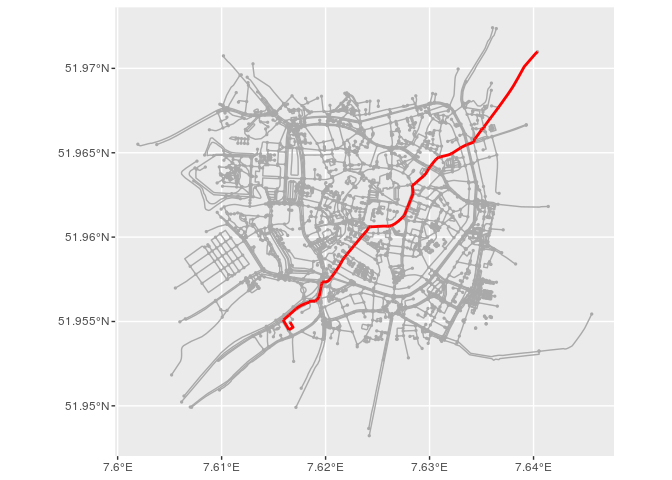
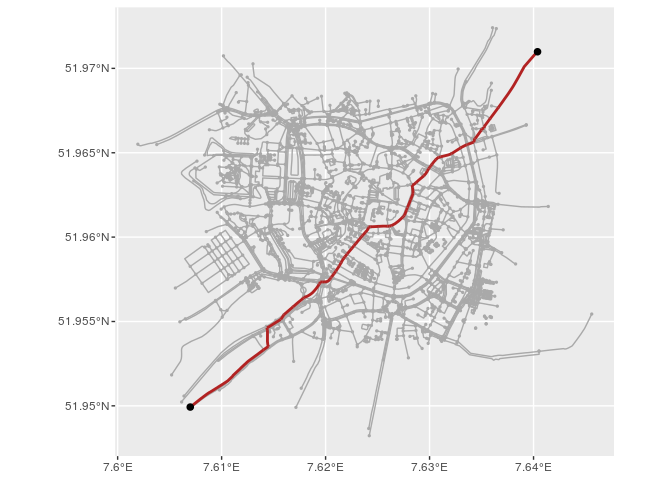
Update maps + tidy

diff --git a/blogpost.md b/blogpost.md
@@ -670,11 +670,7 @@ interactive map.
 
 ``` r
 tmap_mode('view')
-```
 
-    ## tmap mode set to interactive viewing
-
-``` r
 tm_shape(graph %>% activate(edges) %>% as_tibble() %>% st_as_sf()) +
   tm_lines() +
 tm_shape(graph %>% activate(nodes) %>% as_tibble() %>% st_as_sf()) +
@@ -740,7 +736,7 @@ graph
 ``` r
 ggplot() +
   geom_sf(data = graph %>% activate(edges) %>% as_tibble() %>% st_as_sf()) + 
-  geom_sf(data = graph %>% activate(nodes) %>% as_tibble() %>% st_as_sf(), aes(col = betweenness), size = 2) +
+  geom_sf(data = graph %>% activate(nodes) %>% as_tibble() %>% st_as_sf(), aes(col = betweenness, size = betweenness)) +
   scale_colour_viridis_c(option = 'inferno')
 ```
 
@@ -748,7 +744,7 @@ ggplot() +
 
 ``` r
 ggplot() +
-  geom_sf(data = graph %>% activate(edges) %>% as_tibble() %>% st_as_sf(), aes(col = betweenness, lwd = betweenness)) +
+  geom_sf(data = graph %>% activate(edges) %>% as_tibble() %>% st_as_sf(), aes(col = betweenness, size = betweenness)) +
   scale_colour_viridis_c(option = 'inferno')
 ```
 
@@ -801,7 +797,7 @@ and `both` returns them both.
 ``` r
 from_node <- graph %>%
   activate(nodes) %>%
-  filter(nodeID == 3285) %>%
+  filter(nodeID == 3284) %>%
   pull(nodeID)
 
 to_node <- graph %>%
@@ -821,30 +817,30 @@ path$vpath
 ```
 
     ## [[1]]
-    ## + 81/3321 vertices, from 9dfd9b2:
-    ##  [1] 3285 2314 1146 2410 2893 2892 1979 1978 1901 2407  448 3151 2847 1868
-    ## [15] 2070  152 1508 3014 3013 2951 2392 1201 1719 1197 3085 1194 1190  552
-    ## [29] 1577 1185 1182 2124 1176 2125   59 1925  920 3162 2134 1902 1903  330
-    ## [43] 1904   26   27 1961 1454 1455 1456 1457 1688 1911 1462   24   25 3073
-    ## [57]  753  756 1073 1475 1476 2693 2692 3061 1659  830 1656 1655 2854   11
-    ## [71] 1640 1091 1092   99 1234  101  100  275 3154 3163 3305
+    ## + 82/3321 vertices, from 45ad0b9:
+    ##  [1] 3284 2822 2905 2310 1382  226 2035  445  446  946  368  367 2848 2289
+    ## [15] 2239 2393  152 1508 3014 3013 2951 2392 1201 1719 1197 3085 1194 1190
+    ## [29]  552 1577 1185 1182 2124 1176 2125   59 1925  920 3162 2134 1902 1903
+    ## [43]  330 1904   26   27 1961 1454 1455 1456 1457 1688 1911 1462   24   25
+    ## [57] 3073  753  756 1073 1475 1476 2693 2692 3061 1659  830 1656 1655 2854
+    ## [71]   11 1640 1091 1092   99 1234  101  100  275 3154 3163 3305
 
 ``` r
 path$epath
 ```
 
     ## [[1]]
-    ## + 80/4681 edges from 9dfd9b2:
-    ##  [1] 2314--3285 1146--2314 1146--2410 2410--2893 2892--2893 1979--2892
-    ##  [7] 1978--1979 1901--1978 1901--2407  448--2407  448--3151 2847--3151
-    ## [13] 1868--2847 1868--2070  152--2070  152--1508 1508--3014 3013--3014
-    ## [19] 2951--3013 2392--2951 1201--2392 1201--1719 1197--1719 1197--3085
-    ## [25] 1194--3085 1190--1194  552--1190  552--1577 1185--1577 1182--1185
-    ## [31] 1182--2124 1176--2124 1176--2125   59--2125   59--1925  920--1925
-    ## [37]  920--3162 2134--3162 1902--2134 1902--1903  330--1903  330--1904
-    ## [43]   26--1904   26--  27   27--1961 1454--1961 1454--1455 1455--1456
-    ## [49] 1456--1457 1457--1688 1688--1911 1462--1911   24--1462   24--  25
-    ## [55]   25--3073  753--3073  753-- 756  756--1073 1073--1475 1475--1476
+    ## + 81/4681 edges from 45ad0b9:
+    ##  [1] 2822--3284 2822--2905 2310--2905 1382--2310  226--1382  226--2035
+    ##  [7]  445--2035  445-- 446  446-- 946  368-- 946  367-- 368  367--2848
+    ## [13] 2289--2848 2239--2289 2239--2393  152--2393  152--1508 1508--3014
+    ## [19] 3013--3014 2951--3013 2392--2951 1201--2392 1201--1719 1197--1719
+    ## [25] 1197--3085 1194--3085 1190--1194  552--1190  552--1577 1185--1577
+    ## [31] 1182--1185 1182--2124 1176--2124 1176--2125   59--2125   59--1925
+    ## [37]  920--1925  920--3162 2134--3162 1902--2134 1902--1903  330--1903
+    ## [43]  330--1904   26--1904   26--  27   27--1961 1454--1961 1454--1455
+    ## [49] 1455--1456 1456--1457 1457--1688 1688--1911 1462--1911   24--1462
+    ## [55]   24--  25   25--3073  753--3073  753-- 756  756--1073 1073--1475
     ## + ... omitted several edges
 
 ``` r
@@ -857,11 +853,11 @@ path_graph <- graph %>%
 path_graph
 ```
 
-    ## # A tbl_graph: 81 nodes and 80 edges
+    ## # A tbl_graph: 82 nodes and 81 edges
     ## #
     ## # An undirected simple graph with 1 component
     ## #
-    ## # Node Data: 81 x 4 (active)
+    ## # Node Data: 82 x 4 (active)
     ##   nodeID            geometry degree betweenness
     ##    <int>         <POINT [°]>  <dbl>       <dbl>
     ## 1     11 (7.633612 51.96548)      4      107917
@@ -870,21 +866,22 @@ path_graph
     ## 4     26 (7.626123 51.96065)      3      724992
     ## 5     27 (7.626309 51.96067)      3      653364
     ## 6     59 (7.623359 51.95995)      3      544089
-    ## # … with 75 more rows
+    ## # … with 76 more rows
     ## #
-    ## # Edge Data: 80 x 7
+    ## # Edge Data: 81 x 7
     ##    from    to highway                  geometry edgeID   length betweenness
     ##   <int> <int> <fct>            <LINESTRING [°]>  <int>      [m]       <dbl>
     ## 1     2     3 reside… (7.62837 51.96292, 7.628…     13 18.62548      433722
     ## 2     4     5 reside… (7.626123 51.96065, 7.62…     14 13.08964      651475
     ## 3     8     9 service (7.635255 51.96645, 7.63…     54 14.98778       33343
-    ## # … with 77 more rows
+    ## # … with 78 more rows
 
 ``` r
 ggplot() +
-  geom_sf(data = graph %>% activate(edges) %>% as_tibble() %>% st_as_sf(), col = 'darkgrey') + 
-  geom_sf(data = graph %>% activate(nodes) %>% as_tibble() %>% st_as_sf(), size = 0.5, col = 'darkgrey') +
-  geom_sf(data = path_graph %>% activate(edges) %>% as_tibble() %>% st_as_sf(), lwd = 1, col = 'red')
+  geom_sf(data = graph %>% activate(edges) %>% as_tibble() %>% st_as_sf(), col = 'darkgrey') +
+  geom_sf(data = graph %>% activate(nodes) %>% as_tibble() %>% st_as_sf(), col = 'darkgrey', size = 0.5) +
+  geom_sf(data = path_graph %>% activate(edges) %>% as_tibble() %>% st_as_sf(), lwd = 1, col = 'firebrick') +
+  geom_sf(data = path_graph %>% activate(nodes) %>% filter(nodeID %in% c(from_node, to_node)) %>% as_tibble() %>% st_as_sf(), size = 2)
 ```
 
 ![](blogpost_files/figure-gfm/unnamed-chunk-25-1.png)<!-- -->
@@ -898,49 +895,19 @@ station of Münster to the cathedral.
 muenster_station <- st_point(c(7.6349, 51.9566)) %>% 
   st_sfc(crs = 4326)
 
-muenster_station
-```
-
-    ## Geometry set for 1 feature 
-    ## geometry type:  POINT
-    ## dimension:      XY
-    ## bbox:           xmin: 7.6349 ymin: 51.9566 xmax: 7.6349 ymax: 51.9566
-    ## epsg (SRID):    4326
-    ## proj4string:    +proj=longlat +datum=WGS84 +no_defs
-
-    ## POINT (7.6349 51.9566)
-
-``` r
 muenster_cathedral <- st_point(c(7.626, 51.962)) %>%
   st_sfc(crs = 4326)
 
-muenster_cathedral
+ggplot() +
+  geom_sf(data = graph %>% activate(edges) %>% as_tibble() %>% st_as_sf(), col = 'darkgrey') +
+  geom_sf(data = graph %>% activate(nodes) %>% as_tibble() %>% st_as_sf(), col = 'darkgrey', size = 0.5) +
+  geom_sf(data = muenster_station, size = 2, col = 'firebrick') +
+  geom_sf(data = muenster_cathedral, size = 2, col = 'firebrick') +
+  geom_sf_label(data = muenster_station, aes(label = 'station'), nudge_x = 0.004) +
+  geom_sf_label(data = muenster_cathedral, aes(label = 'cathedral'), nudge_x = 0.005)
 ```
 
-    ## Geometry set for 1 feature 
-    ## geometry type:  POINT
-    ## dimension:      XY
-    ## bbox:           xmin: 7.626 ymin: 51.962 xmax: 7.626 ymax: 51.962
-    ## epsg (SRID):    4326
-    ## proj4string:    +proj=longlat +datum=WGS84 +no_defs
-
-    ## POINT (7.626 51.962)
-
-<!-- ```{r, eval=FALSE, echo=FALSE} -->
-
-<!-- text_o = "Muenster domplatz" -->
-
-<!-- text_d = "Muenster railway station" -->
-
-<!-- list_o = tmaptools::geocode_OSM(text_o) -->
-
-<!-- list_d = tmaptools::geocode_OSM(text_d) -->
-
-<!-- coords_o = matrix(list_o$coords, ncol = 2) -->
-
-<!-- coords_d = matrix(list_d$coords, ncol = 2) -->
-
-<!-- ``` -->
+![](blogpost_files/figure-gfm/unnamed-chunk-26-1.png)<!-- -->
 
 To find the route on the network, we must first identify the nearest
 points on the network. The `nabor` package has a well performing
@@ -973,8 +940,7 @@ node_o <- nodes[node_index_o$nn.idx, ]
 node_d <- nodes[node_index_d$nn.idx, ]
 ```
 
-Like before, we use the ID to calculate the shortest path, and plot it
-on an interactive map:
+Like before, we use the ID to calculate the shortest path, and plot it:
 
 ``` r
 path <- shortest_paths(
@@ -991,16 +957,14 @@ path_graph <- graph %>%
   activate(nodes) %>%
   slice(path$vpath %>% unlist())
 
-tmap_mode('view')
-```
-
-    ## tmap mode set to interactive viewing
-
-``` r
-tm_shape(graph %>% activate(edges) %>% as_tibble() %>% st_as_sf()) +
-  tm_lines(lwd = 1) +
-tm_shape(path_graph %>% activate(edges) %>% as_tibble() %>% st_as_sf()) +
-  tm_lines(col = "red", lwd = 3)
+ggplot() +
+  geom_sf(data = graph %>% activate(edges) %>% as_tibble() %>% st_as_sf(), col = 'darkgrey') +
+  geom_sf(data = graph %>% activate(nodes) %>% as_tibble() %>% st_as_sf(), col = 'darkgrey', size = 0.5) +
+  geom_sf(data = path_graph %>% activate(edges) %>% as_tibble() %>% st_as_sf(), lwd = 1, col = 'firebrick') +
+  geom_sf(data = muenster_station, size = 2) +
+  geom_sf(data = muenster_cathedral, size = 2)  +
+  geom_sf_label(data = muenster_station, aes(label = 'station'), nudge_x = 0.004) +
+  geom_sf_label(data = muenster_cathedral, aes(label = 'cathedral'), nudge_x = 0.005)
 ```
 
 ![](blogpost_files/figure-gfm/unnamed-chunk-28-1.png)<!-- -->
@@ -1027,77 +991,3 @@ are recommended:
   - Chapter 10 of Geocomputation with R, which provides context and
     demonstrates a transport planning workflow in R:
     <https://geocompr.robinlovelace.net/transport.html>
-
-<!-- For this purpose, the dodgr package, designed with a focus on routing in street networks, comes in handy. If we provide it the network, and the coordinates of the desired from and two points as two-column matrices, it will find the network points closest to the given locations, and calculate the shortest paths. In computing time, dodgr even outperforms igraph.  -->
-
-<!-- However, dodgr does not work with sf-like geometry list columns (yet?). Instead, it assumes the graph to be a single data.frame, or similar object, containing the longitudes and latitudes of the from and to nodes in distinct columns. Also, the distance column should be a numeric column called `dist`, and not a `units` class called `length`. Therefore, we need to take some pre-processing steps before we can use dodgr. Again, we will show an example of a shortest path from one location to another, but it is just as well possible to do the same for one to many, many to one, or many to many locations. -->
-
-<!-- ```{r, results='asis'} -->
-
-<!-- library(dodgr) -->
-
-<!-- node_coordinates <- graph %>% -->
-
-<!--   activate(nodes) %>% -->
-
-<!--   as_tibble() %>% -->
-
-<!--   st_as_sf() %>% -->
-
-<!--   st_coordinates() %>% -->
-
-<!--   as_tibble() %>% -->
-
-<!--   mutate(nodeID = graph %>% activate(nodes) %>% pull(nodeID)) -->
-
-<!-- dodgr_graph <- graph %>% -->
-
-<!--   activate(edges) %>% -->
-
-<!--   as_tibble() %>% -->
-
-<!--   mutate(dist = as.numeric(length)) %>%  -->
-
-<!--   rename(edge_id = edgeID) %>% -->
-
-<!--   left_join(node_coordinates, by = c('from' = 'nodeID')) %>% -->
-
-<!--   rename(from_id = from, from_lon = X, from_lat = Y) %>% -->
-
-<!--   left_join(node_coordinates, by = c('to' = 'nodeID')) %>% -->
-
-<!--   rename(to_id = to, to_lon = X, to_lat = Y) %>% -->
-
-<!--   select(edge_id, from_id, from_lon, from_lat, to_id, to_lon, to_lat, dist) %>%  -->
-
-<!--   as.data.frame() %>% # a tibble is not recognized by dodgr -->
-
-<!--   dodgr_components() # a requirement to for a dodgr_streetnet  -->
-
-<!-- dodgr_graph %>% head(10) %>% knitr::kable() -->
-
-<!-- ``` -->
-
-<!-- ```{r, error = TRUE} -->
-
-<!-- muenster_station <- st_point(c(7.6349, 51.9566)) %>% st_sfc(crs = 4326) %>% st_coordinates() -->
-
-<!-- muenster_station -->
-
-<!-- muenster_cathedral <- st_point(c(7.62199751, 51.957829502)) %>% st_sfc(crs = 4326) %>% st_coordinates() -->
-
-<!-- muenster_cathedral -->
-
-<!-- path <- dodgr::dodgr_paths( -->
-
-<!--   graph = dodgr_graph, -->
-
-<!--   from = muenster_cathedral, -->
-
-<!--   to = muenster_station -->
-
-<!-- ) -->
-
-<!-- path ## It works but just cannot find a path between the two points. Possibly has to do with the fact that the graph is undirected and dodgr only works with directed graphs.  -->
-
-<!-- ``` -->
